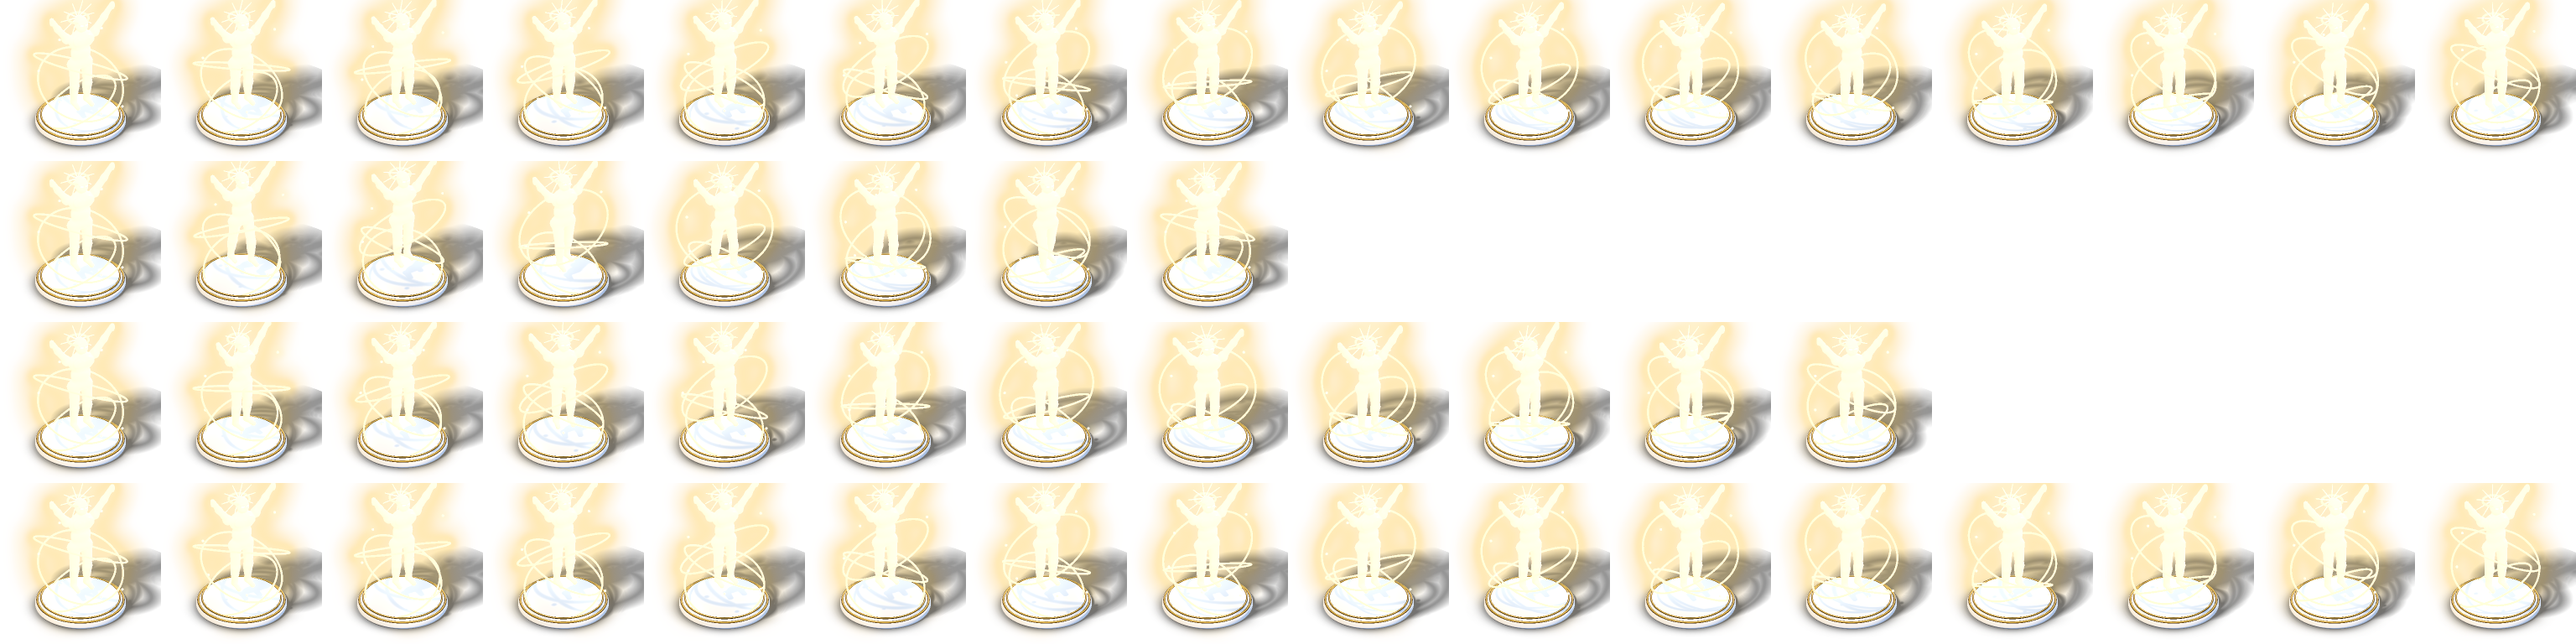
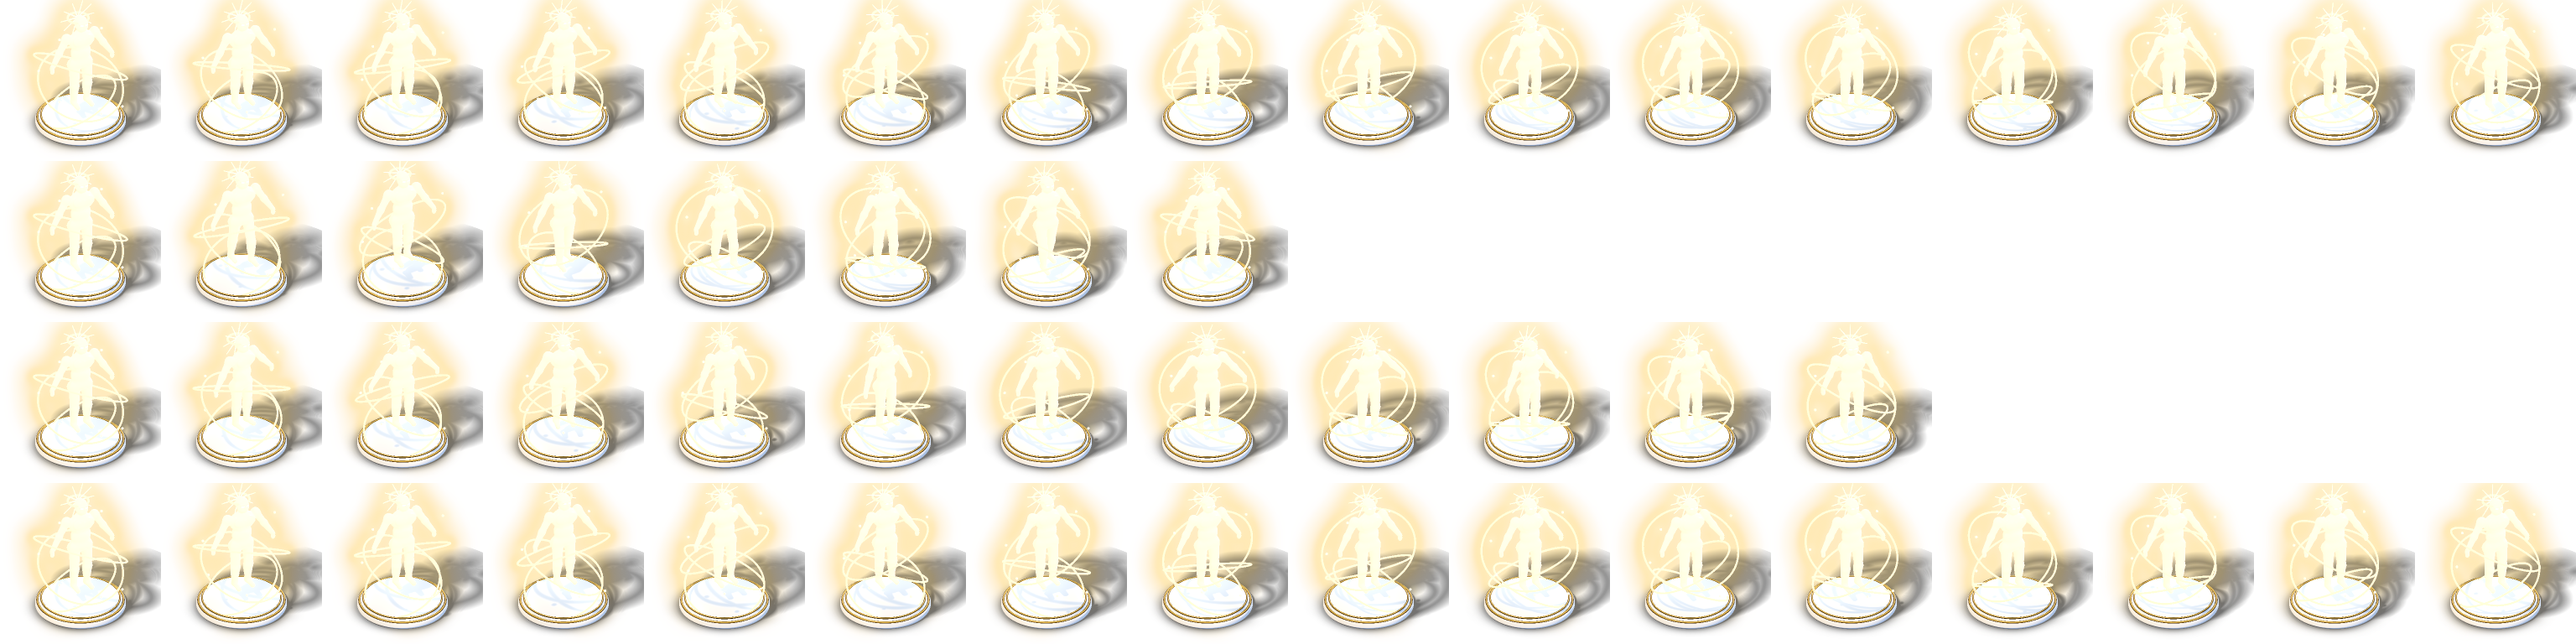
app: Laboratoire, the last figure (the body of light) stands with its arms lowered and open, also when it wins

diff --git a/app/tools/sprites/anatomy.py b/app/tools/sprites/anatomy.py
@@ -28,17 +28,17 @@ from render import X, F, DEV
 import random
 
 
-def joints(anim, t, lift=0.0, arms_up=False):
+def joints(anim, t, lift=0.0, arms_up=None, spread=0.32):
     """The joints in the body's frame (y up from the base's top), and the root transform."""
     breathe = 0.004 * math.sin(TAU * t)
     sway = 0.03 * math.sin(TAU * t) if anim == "idle" else 0.0
     hy = 0.48
     J = {"pelvis": (0, hy, 0), "chest": (0, hy + 0.22 + breathe, 0.01), "neck": (0, hy + 0.34, -0.005), "head": (0, hy + 0.43, 0.01)}
     J["spine"] = [(0, hy - 0.02 + k * 0.035, -0.03 + 0.012 * math.sin(k * 0.6)) for k in range(11)]
-    up = arms_up or anim == "win"
+    up = anim == "win" if arms_up is None else arms_up
     for sgn, side in ((-1, "l"), (1, "r")):
         sh = (0.15 * sgn, hy + 0.29, 0)
-        sp = 2.5 if up else 0.32 + (0.15 * math.sin(TAU * t * 2) if anim == "blocked" else 0.0)
+        sp = 2.5 if up else spread + (0.15 * math.sin(TAU * t * 2) if anim == "blocked" else 0.0)
         el = (sh[0] + sgn * 0.17 * math.sin(sp), sh[1] - 0.17 * math.cos(sp), 0.01)
         wr = (el[0] + sgn * 0.155 * math.sin(sp * 1.05), el[1] - 0.155 * math.cos(sp * 1.05), 0.03)
         step = 0.2 * math.sin(TAU * t * 2) * sgn if anim == "move" else 0.0
@@ -456,7 +456,7 @@ def stage(level):
         sc = Scene()
         base(sc, side)
         lift = {8: 0.0, 9: 0.08 + 0.02 * math.sin(TAU * t), 10: 0.14 + 0.03 * math.sin(TAU * t)}.get(level, 0.0)
-        J, root = joints(anim, t, lift, arms_up=level == 10)
+        J, root = joints(anim, t, lift, **({"arms_up": False, "spread": 0.55} if level == 10 else {}))
         if level <= 7:
             scanner(sc, t)
         if level <= 4:
